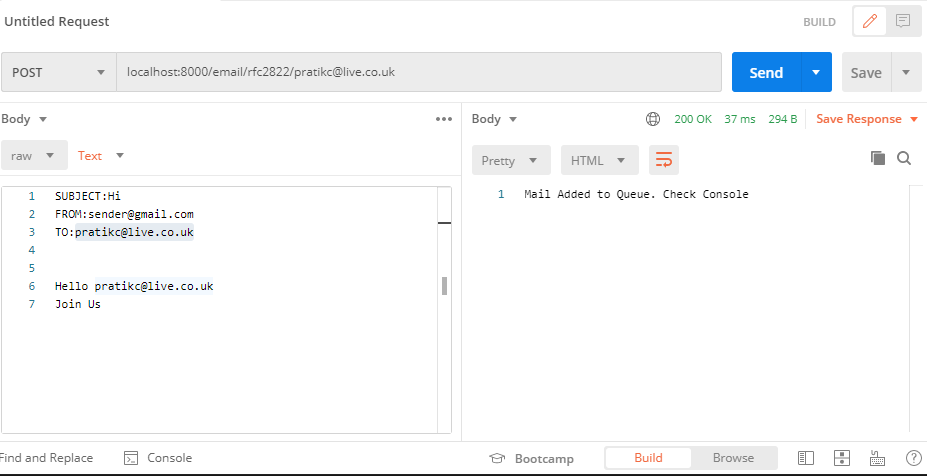
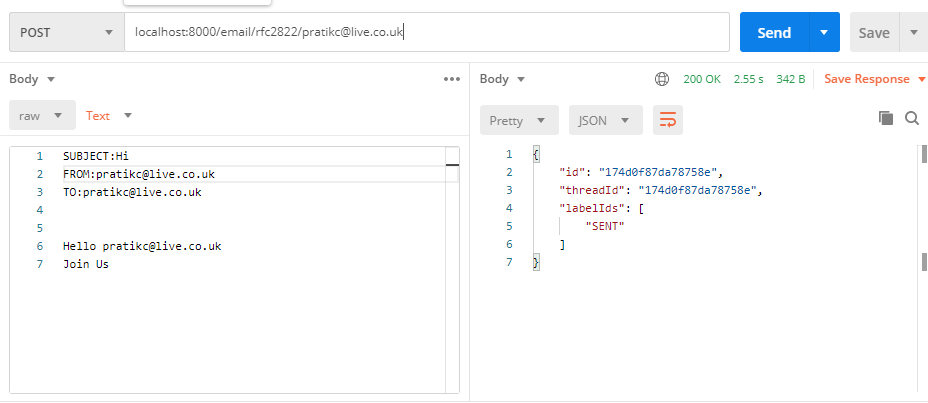
Do not use Emitter for Sending Mail so user can be informed

diff --git a/src/controller/Mail.ts b/src/controller/Mail.ts
@@ -1,63 +1,73 @@
-// As we were asked to not Use External APIs
-// We create our own APIs
+// eslint-disable-next-line eslint-comments/disable-enable-pair
+/* eslint-disable @typescript-eslint/naming-convention */
 
-import fetch from 'node-fetch';
+import {
+    RFC2822Email,
+    EncodeRFC2822,
+    GenerateRFC2822
+} from '../gauth-utils/Mail';
+import { RefreshAccessToken } from '../gauth-utils/Token';
+import UserStorage from '../resources/UsersStorage';
+import ErrorEvents from '../events/ErrorEvents';
 
-import { MailApiUri } from '../config/GMail';
+// Send RFC2822 Mail
+export async function SendRawMail({
+    raw,
+    email: email_
+}: {
+    raw: string;
+    email: string;
+}) {
+    const email = String(email_);
+    await UserStorage.LoadFile();
+    const user = UserStorage.Info[email];
 
-// https://stackoverflow.com/a/32591614/1691072
-// EMail is encoded in Base64 Encoded Format
-// Perform Encoding in RFC 2822 Standard
-export function EncodeResponse(data: string) {
-    return Buffer.from(data)
-        .toString('base64')
-        .replace(/\+/g, '-')
-        .replace(/\//g, '_')
-        .replace(/=+$/, '');
-}
-// Send the EMail to the server
-// Input is String in RFC 2822 standard
-export async function RFC2822Email(
-    accessToken: string,
-    raw: string
-) {
-    const response = await fetch(
-        String(`${MailApiUri}?access_token=${accessToken}`),
-        {
-            method: 'POST',
-            headers: {
-                'Content-type': 'application/json'
-            },
-            body: JSON.stringify({
-                raw: raw
-            })
-        }
+    console.log('RFC2822 Text', raw);
+
+    if (user == null) {
+        ErrorEvents.emit('error', 'User Not Found');
+        throw new Error('User Not Found');
+    }
+    const { refresh_token } = user;
+    const access_token = (
+        await RefreshAccessToken(refresh_token)
+    )?.access_token;
+    if (access_token == null) {
+        ErrorEvents.emit(
+            'error',
+            'Unable to generate Access Token'
+        );
+        throw new Error('Unable to generate Access Token');
+    }
+
+    const json = await RFC2822Email(
+        access_token,
+        EncodeRFC2822(String(raw))
     );
-    const json = await response.json();
+    if (json.error != null) {
+        ErrorEvents.emit(
+            'error',
+            'Unable to Send Mail',
+            json.error
+        );
+        throw new Error(json.error);
+    }
+    console.log('Results of Sending mail are');
+    console.log(json);
     return json;
 }
 
-// Convert Headers from JSON to RFC 2822 standard
-// Content-Type: text/plain\n
-// From: sender@email.com
-function StringifyHeaders(
-    headers: Record<string, unknown>
-) {
-    return Object.entries(headers)
-        .map(([k, v]) => `${k.toUpperCase()}:${v}`)
-        .join('\n');
-}
-
-export function GenerateRFC2822(
-    headers: Record<string, unknown>,
-    body: string
-) {
-    return `${StringifyHeaders(headers).replace('\r', '')}
-
-
-${body.replace('\r', '')}`;
-}
-
-export function EncodeRFC2822(raw: string) {
-    return EncodeResponse(raw);
+export async function SendMail({
+    headers,
+    data,
+    email
+}: {
+    email: string;
+    headers: Record<string, unknown>;
+    data: string;
+}) {
+    return await SendRawMail({
+        raw: GenerateRFC2822(headers, data),
+        email: email
+    });
 }

diff --git a/src/api/mail.ts b/src/api/mail.ts
@@ -1,36 +1,47 @@
 import { Router } from 'express';
-import MailEvents from '../events/MailEvents';
+import { StatusCodes } from 'http-status-codes';
+import { SendMail, SendRawMail } from '../controller/Mail';
 
 export default function Email(app: Router) {
     const route = Router();
     app.use('/email', route);
 
     // Parameter Sender is Optional
-    route.post('/:sender?', (req, res) => {
+    route.post('/:sender?', async (req, res) => {
         const { headers, data } = req.body;
         let { sender: email } = req.params;
         // If No Email Provided, use From Header
         if (email == null || email === '')
             email = headers?.From;
-        MailEvents.emit('send', {
-            headers: headers,
-            data: data,
-            email: email
-        });
-        return res.send(
-            'Mail Added to Queue. Check Console'
-        );
+
+        try {
+            const json = await SendMail({
+                headers: headers,
+                data: data,
+                email: email
+            });
+            return res.json(json);
+        } catch (err) {
+            console.log(err);
+            return res
+                .status(StatusCodes.INTERNAL_SERVER_ERROR)
+                .send(err.message);
+        }
     });
     // Pass RFC-2822
-    route.post('/rfc2822/:sender', (req, res) => {
+    route.post('/rfc2822/:sender', async (req, res) => {
         const raw = req.body;
         const { sender: email } = req.params;
-        MailEvents.emit('send_raw', {
-            raw: raw,
-            email: email
-        });
-        return res.send(
-            'Mail Added to Queue. Check Console'
-        );
+        try {
+            const json = await SendRawMail({
+                raw: raw,
+                email: email
+            });
+            return res.json(json);
+        } catch (err) {
+            return res
+                .status(StatusCodes.INTERNAL_SERVER_ERROR)
+                .send(err.message);
+        }
     });
 }

diff --git a/src/gauth-utils/Mail.ts b/src/gauth-utils/Mail.ts
@@ -1,0 +1,63 @@
+// As we were asked to not Use External APIs
+// We create our own APIs
+
+import fetch from 'node-fetch';
+
+import { MailApiUri } from '../config/GMail';
+
+// https://stackoverflow.com/a/32591614/1691072
+// EMail is encoded in Base64 Encoded Format
+// Perform Encoding in RFC 2822 Standard
+export function EncodeResponse(data: string) {
+    return Buffer.from(data)
+        .toString('base64')
+        .replace(/\+/g, '-')
+        .replace(/\//g, '_')
+        .replace(/=+$/, '');
+}
+// Send the EMail to the server
+// Input is String in RFC 2822 standard
+export async function RFC2822Email(
+    accessToken: string,
+    raw: string
+) {
+    const response = await fetch(
+        String(`${MailApiUri}?access_token=${accessToken}`),
+        {
+            method: 'POST',
+            headers: {
+                'Content-type': 'application/json'
+            },
+            body: JSON.stringify({
+                raw: raw
+            })
+        }
+    );
+    const json = await response.json();
+    return json;
+}
+
+// Convert Headers from JSON to RFC 2822 standard
+// Content-Type: text/plain\n
+// From: sender@email.com
+function StringifyHeaders(
+    headers: Record<string, unknown>
+) {
+    return Object.entries(headers)
+        .map(([k, v]) => `${k.toUpperCase()}:${v}`)
+        .join('\n');
+}
+
+export function GenerateRFC2822(
+    headers: Record<string, unknown>,
+    body: string
+) {
+    return `${StringifyHeaders(headers).replace('\r', '')}
+
+
+${body.replace('\r', '')}`;
+}
+
+export function EncodeRFC2822(raw: string) {
+    return EncodeResponse(raw);
+}

diff --git a/src/loaders/index.ts b/src/loaders/index.ts
@@ -9,7 +9,7 @@ import UserStorage from '../resources/UsersStorage';
 import Auth from '../api/auth';
 import Users from '../api/users';
 import Email from '../api/mail';
-import { LoadWellKnownConfiguration } from '../controller/Token';
+import { LoadWellKnownConfiguration } from '../gauth-utils/Token';
 
 export default async function Loader(app: Application) {
     // https://stackoverflow.com/a/46475726

diff --git a/src/api/auth.ts b/src/api/auth.ts
@@ -3,7 +3,7 @@ import StatusCode from 'http-status-codes';
 
 import url from 'url';
 import googleConfig from '../config/google';
-import { LoginUri } from '../controller/Token';
+import { LoginUri } from '../gauth-utils/Token';
 import AuthEvents from '../events/AuthEvents';
 
 export default function Auth(app: Router) {

diff --git a/src/events/AuthEvents.ts b/src/events/AuthEvents.ts
@@ -3,7 +3,7 @@ import { EventEmitter } from 'events';
 import {
     AccessTokens,
     UserGetEmail
-} from '../controller/Token';
+} from '../gauth-utils/Token';
 import UserStorage from '../resources/UsersStorage';
 
 const AuthEvents = new EventEmitter();
